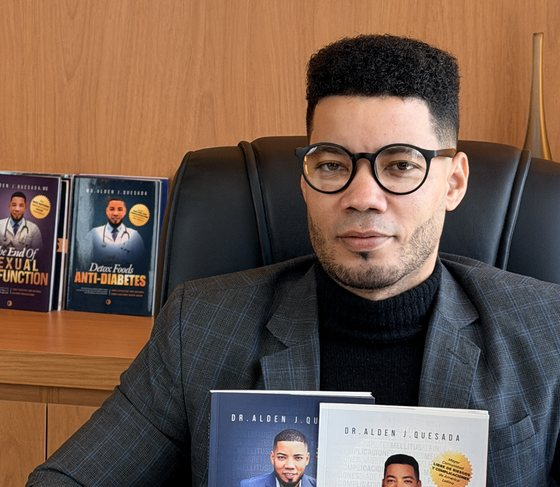
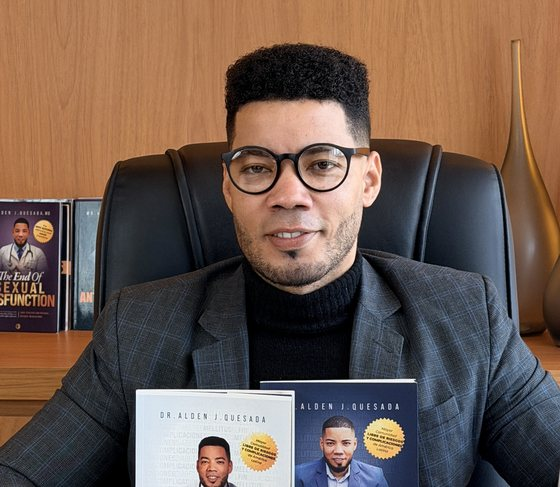
Previa de compartilhamento, icones e reenquadramento das fotos
A previa (og.jpg 1200x630) e o que aparece quando o link e colado no
WhatsApp. Antes ia o avatar de 320px esticado. URLs absolutas nas
metatags: WhatsApp e Facebook nao resolvem caminho relativo.

Fotos remapeadas depois de olhar as dez em folha de contato: 6.jpg saiu
(olhos baixos) e os enquadramentos passaram a separar as fotos quase
identicas, uma fechada no rosto e outra aberta na mesa.

diff --git a/index.html b/index.html
@@ -7,20 +7,34 @@
 <meta name="description" content="Especialista en Cardiología y Naturópata. Libros, consultas, mentorías y conferencias.">
 <meta name="theme-color" content="#120e0b">
 
+<!-- Previa do compartilhamento. A URL precisa ser absoluta: WhatsApp e
+     Facebook nao resolvem caminho relativo. -->
 <meta property="og:type" content="website">
+<meta property="og:url" content="https://aldenquesada.github.io/">
+<meta property="og:site_name" content="Dr. Alden J. Quesada">
+<meta property="og:locale" content="es_ES">
 <meta property="og:title" content="Dr. Alden J. Quesada">
-<meta property="og:description" content="Especialista en Cardiología y Naturópata.">
-<meta property="og:image" content="img/dr/avatar.jpg">
+<meta property="og:description" content="Especialista en Cardiología y Naturópata. Libros, consultas, mentorías y conferencias.">
+<meta property="og:image" content="https://aldenquesada.github.io/img/social/og.jpg">
+<meta property="og:image:width" content="1200">
+<meta property="og:image:height" content="630">
+<meta property="og:image:alt" content="Dr. Alden J. Quesada">
 
-<link rel="icon" href="img/dr/avatar.jpg">
+<meta name="twitter:card" content="summary_large_image">
+<meta name="twitter:title" content="Dr. Alden J. Quesada">
+<meta name="twitter:description" content="Especialista en Cardiología y Naturópata.">
+<meta name="twitter:image" content="https://aldenquesada.github.io/img/social/og.jpg">
+
+<link rel="icon" href="img/social/favicon.png" sizes="64x64">
+<link rel="apple-touch-icon" href="img/social/apple-touch-icon.png">
 <link rel="preconnect" href="https://fonts.googleapis.com">
 <link rel="preconnect" href="https://fonts.gstatic.com" crossorigin>
 <link href="https://fonts.googleapis.com/css2?family=Inter:wght@400;500;600;700&family=Mrs+Saint+Delafield&family=Oswald:wght@500;600;700&display=swap" rel="stylesheet">
 
 <!-- O ?v= quebra o cache do navegador. Ao mexer em CSS ou JS, suba o numero. -->
-<link rel="stylesheet" href="css/tokens.css?v=5">
-<link rel="stylesheet" href="css/base.css?v=5">
-<link rel="stylesheet" href="css/cards.css?v=5">
+<link rel="stylesheet" href="css/tokens.css?v=6">
+<link rel="stylesheet" href="css/base.css?v=6">
+<link rel="stylesheet" href="css/cards.css?v=6">
 </head>
 <body>
 
@@ -35,7 +49,7 @@
   <footer class="pie" id="pie" hidden></footer>
 </div>
 
-<script src="js/utm.js?v=5"></script>
-<script src="js/render.js?v=5"></script>
+<script src="js/utm.js?v=6"></script>
+<script src="js/render.js?v=6"></script>
 </body>
 </html>

diff --git a/ferramentas/social.py b/ferramentas/social.py
@@ -1,0 +1,95 @@
+#!/usr/bin/env python3
+"""Gera a previa de compartilhamento (Open Graph) e os icones.
+
+A previa e o que aparece quando o link e colado no WhatsApp, no
+Instagram ou no Facebook. Sem ela, o compartilhamento mostra um quadrado
+cinza ou o avatar esticado.
+"""
+import sys, os
+from PIL import Image, ImageDraw, ImageFilter, ImageEnhance, ImageFont
+
+ORIG = "/private/tmp/claude-501/-Users-drquesada/1aea2121-26b4-45a4-9936-e8a2d1834c55/images"
+DEST = sys.argv[1]
+
+GEORGIA      = "/System/Library/Fonts/Supplemental/Georgia.ttf"
+GEORGIA_NEG  = "/System/Library/Fonts/Supplemental/Georgia Bold.ttf"
+
+FUNDO  = (14, 11, 8)
+TEXTO  = (240, 222, 208)
+OURO   = (201, 162, 39)
+
+
+def recorte(im, razao, fy, fx, zoom=1.0):
+    w, h = im.size
+    if w / h > razao:
+        ch, cw = h, int(h * razao)
+    else:
+        cw, ch = w, int(w / razao)
+    cw, ch = int(cw * zoom), int(ch * zoom)
+    cx = max(0, min(int(w * fx) - cw // 2, w - cw))
+    cy = max(0, min(int(h * fy) - ch // 2, h - ch))
+    return im.crop((cx, cy, cx + cw, cy + ch))
+
+
+# ------------------------------------------------------- previa Open Graph
+# 1200x630 e a medida que WhatsApp, Facebook e LinkedIn esperam.
+W, H = 1200, 630
+og = Image.new("RGB", (W, H), FUNDO)
+
+# Ambiente ao fundo, desfocado, para a arte nao ficar chapada.
+amb = Image.open(os.path.join(ORIG, "3.jpg")).convert("RGB")
+amb = recorte(amb, W / H, 0.42, 0.50).resize((W, H), Image.LANCZOS)
+amb = amb.filter(ImageFilter.GaussianBlur(26))
+amb = ImageEnhance.Brightness(amb).enhance(0.30)
+og.paste(amb, (0, 0))
+
+# Ele de corpo, nitido, a direita.
+fig = Image.open(os.path.join(ORIG, "1.jpg")).convert("RGB")
+fig = recorte(fig, 0.72, 0.44, 0.56, 1.00)
+fh = H
+fw = int(fig.width * fh / fig.height)
+fig = fig.resize((fw, fh), Image.LANCZOS)
+
+# A figura e colada com a borda esquerda dissolvida. Sem isso fica uma
+# linha vertical dura na emenda com o texto.
+mascara = Image.new("L", (fw, fh), 255)
+dm = ImageDraw.Draw(mascara)
+dissolve = int(fw * 0.42)
+for x in range(dissolve):
+    dm.line([(x, 0), (x, fh)], fill=int(255 * (x / dissolve) ** 1.6))
+og.paste(fig, (W - fw + 40, 0), mascara)
+
+# Veu da esquerda, para o texto ter onde pousar.
+veu = Image.new("L", (W, H), 0)
+dv = ImageDraw.Draw(veu)
+for x in range(W):
+    t = x / W
+    dv.line([(x, 0), (x, H)], fill=int(255 * max(0.0, min(1.0, 1.15 - t * 1.55))))
+og.paste(Image.new("RGB", (W, H), FUNDO), (0, 0), veu)
+
+d = ImageDraw.Draw(og)
+f_nome = ImageFont.truetype(GEORGIA, 62)
+f_cred = ImageFont.truetype(GEORGIA, 26)
+f_itens = ImageFont.truetype(GEORGIA, 24)
+
+x0, y0 = 72, 196
+d.text((x0, y0), "Dr. Alden J.", font=f_nome, fill=TEXTO)
+d.text((x0, y0 + 74), "Quesada", font=f_nome, fill=TEXTO)
+d.line([(x0, y0 + 168), (x0 + 96, y0 + 168)], fill=OURO, width=2)
+d.text((x0, y0 + 192), "Especialista en Cardiología", font=f_cred, fill=TEXTO)
+d.text((x0, y0 + 226), "y Naturópata", font=f_cred, fill=TEXTO)
+d.text((x0, y0 + 286), "Libros · Consultas · Mentorías", font=f_itens, fill=(163, 144, 127))
+
+os.makedirs(os.path.join(DEST, "social"), exist_ok=True)
+caminho = os.path.join(DEST, "social/og.jpg")
+og.save(caminho, "JPEG", quality=88, optimize=True, progressive=True)
+print(f"  social/og.jpg               {W}x{H}  {os.path.getsize(caminho)//1024} KB")
+
+
+# ------------------------------------------------------------------ icones
+av = Image.open(os.path.join(DEST, "dr/avatar.jpg")).convert("RGB")
+for lado, nome in [(180, "apple-touch-icon.png"), (64, "favicon.png")]:
+    ic = av.resize((lado, lado), Image.LANCZOS)
+    p = os.path.join(DEST, "social", nome)
+    ic.save(p, "PNG", optimize=True)
+    print(f"  social/{nome:22s} {lado}x{lado}  {os.path.getsize(p)//1024} KB")

diff --git a/ferramentas/arte.py b/ferramentas/arte.py
@@ -61,17 +61,25 @@ salvar(recorte(av, 1.0, 0.31, 0.575, 0.46), os.path.join(DEST, "dr/avatar.jpg"),
 # quadrada (207x180 = 1.15). Enquadramento de meio-corpo.
 print("bustos dos cards:")
 BUSTOS = [
-    #  arquivo,  nome,            fy,   fx,  zoom
-    ("10.jpg", "diabetes-es",   0.50, 0.52, 0.86),
-    ("6.jpg",  "fin-diabetes",  0.47, 0.48, 0.86),
-    ("7.jpg",  "diabetes-en",   0.52, 0.50, 0.86),
-    ("8.jpg",  "diabetes-pt",   0.46, 0.52, 0.86),
-    ("5.jpg",  "detox",         0.47, 0.50, 0.86),
+    # arquivo, nome, fy, fx, zoom
+    #
+    # 6.jpg ficou de fora: nela ele esta de olhos baixos, lendo. Em card
+    # de venda o olhar precisa estar na camera.
+    #
+    # 3, 4, 5 e 10 sao quase a mesma foto (sentado, segurando livros), e
+    # 8 e 9 tambem (mao no queixo). Onde elas se repetem, quem separa os
+    # cards e o enquadramento: um fecha no rosto, o outro abre e pega a
+    # mesa. Por isso 1.jpg aparece duas vezes, com planos diferentes.
+    ("9.jpg",  "consulta",      0.42, 0.50, 0.70),  # fechado, atencioso
+    ("4.jpg",  "mentoria",      0.47, 0.50, 0.86),
+    ("1.jpg",  "conferencia",   0.46, 0.52, 1.00),  # plano aberto, em pe
+    ("10.jpg", "diabetes-es",   0.50, 0.52, 0.86),  # capa ES legivel
+    ("5.jpg",  "fin-diabetes",  0.525, 0.455, 0.80),  # puxa para a capa azul
+    ("3.jpg",  "detox",         0.47, 0.50, 0.86),
+    ("7.jpg",  "diabetes-en",   0.47, 0.50, 0.86),  # de perfil, quebra a serie
+    ("8.jpg",  "diabetes-pt",   0.52, 0.52, 0.98),  # aberto, pega a mesa
     ("2.jpg",  "autoridade90",  0.40, 0.56, 0.86),
-    ("9.jpg",  "consulta",      0.45, 0.50, 0.84),
-    ("3.jpg",  "mentoria",      0.47, 0.50, 0.86),
-    ("4.jpg",  "conferencia",   0.45, 0.52, 0.84),
-    ("1.jpg",  "contacto",      0.44, 0.56, 0.92),
+    ("1.jpg",  "contacto",      0.33, 0.57, 0.62),  # fechado no rosto
 ]
 for arquivo, nome, fy, fx, zoom in BUSTOS:
     im = Image.open(os.path.join(ORIG, arquivo)).convert("RGB")

diff --git a/README.md b/README.md
@@ -113,3 +113,15 @@ direto pelo Finder não funciona.
 CSS e JS são carregados com `?v=N` no `index.html`. Ao mexer nesses arquivos,
 suba o número, senão o navegador de quem já visitou continua servindo a versão
 velha. Os JSON não precisam disso: já são lidos com cache-bust automático.
+
+## Prévia do compartilhamento
+
+`ferramentas/social.py` gera `img/social/og.jpg` (1200x630), a imagem que
+WhatsApp, Instagram e Facebook mostram quando o link é colado, mais os ícones
+de aba e de atalho na tela inicial.
+
+As URLs nas metatags `og:` são **absolutas**. Essas plataformas não resolvem
+caminho relativo: com `img/social/og.jpg` a prévia sai em branco.
+
+Depois de trocar a imagem, o WhatsApp guarda a antiga em cache por um tempo.
+Para forçar, mude o nome do arquivo ou acrescente `?v=2` na URL da metatag.
